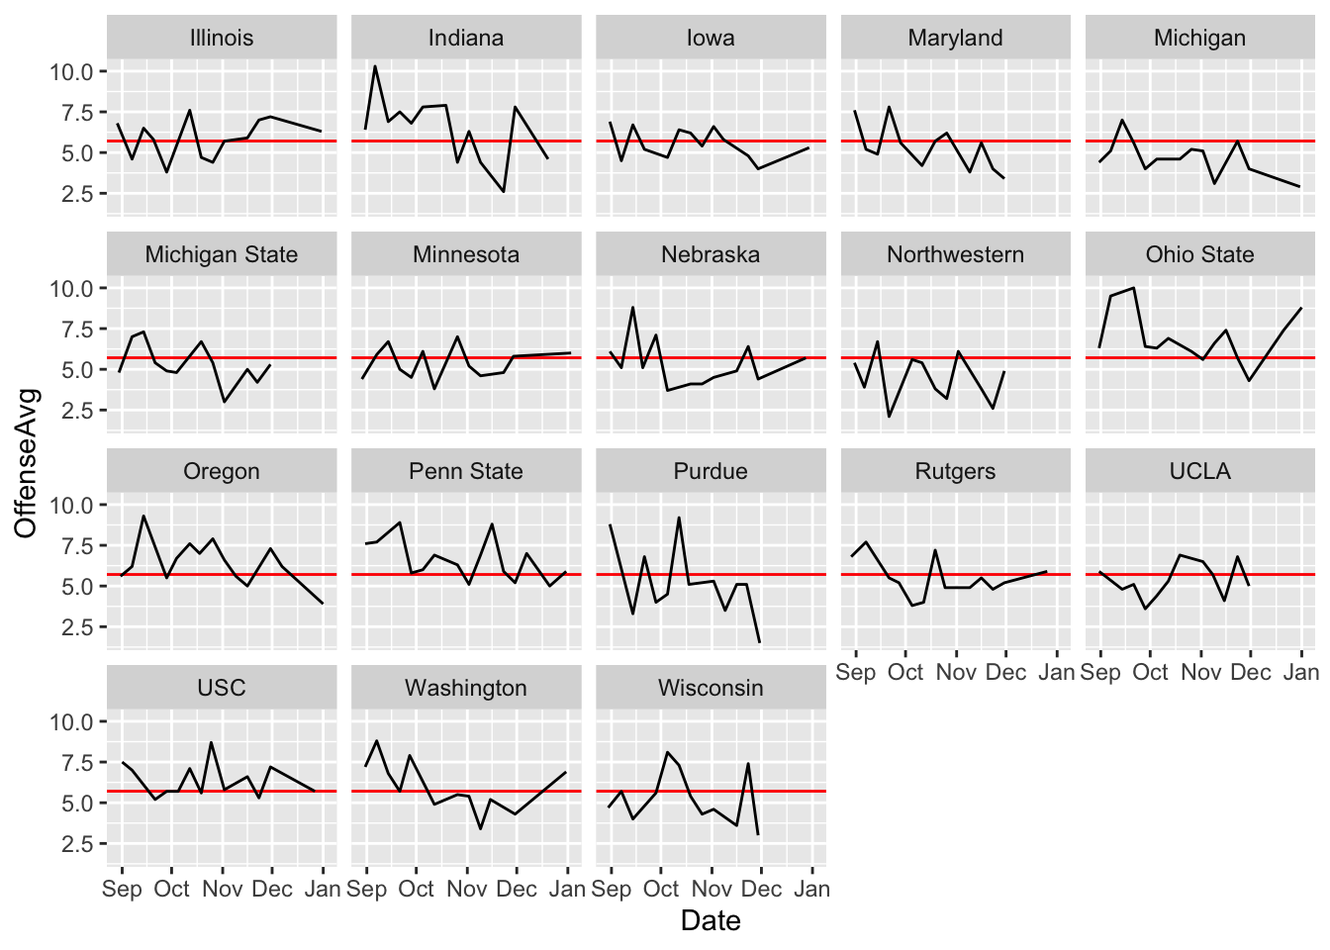
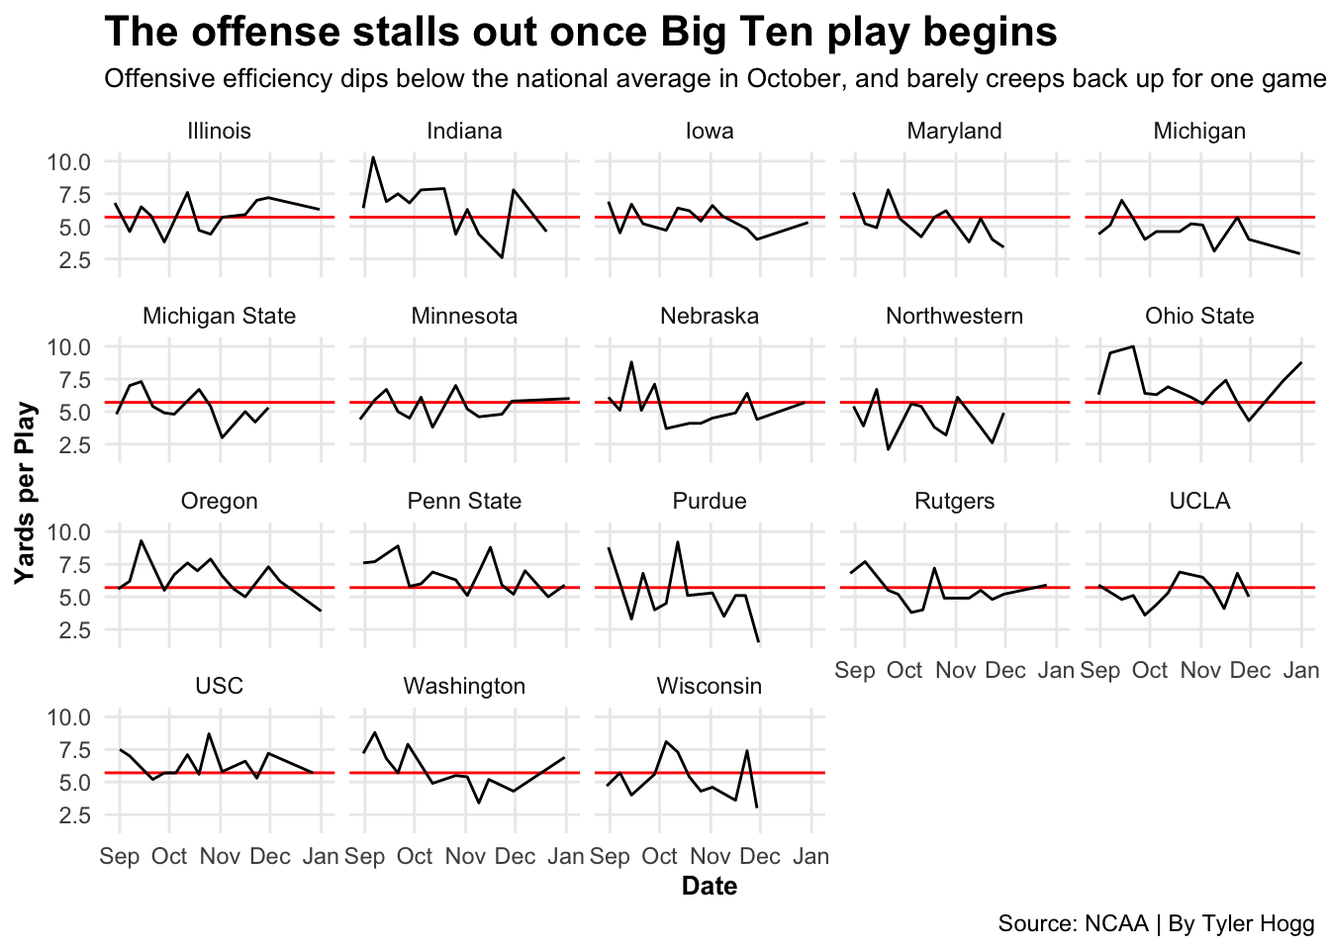
finalblogpost

diff --git a/posts/01-nebraska-football-2026-stats/index.html b/posts/01-nebraska-football-2026-stats/index.html
@@ -312,12 +312,12 @@ pre > code.sourceCode > span > a:first-child::before { text-decoration: underlin
 <span class="menu-text">About Me</span></a>
   </li>  
   <li class="nav-item compact">
-    <a class="nav-link" href="https://github.com/mattwaite"> <i class="bi bi-github" role="img">
+    <a class="nav-link" href="https://github.com/tylerhogg06"> <i class="bi bi-github" role="img">
 </i> 
 <span class="menu-text"></span></a>
   </li>  
   <li class="nav-item compact">
-    <a class="nav-link" href="https://twitter.com/mattwaite"> <i class="bi bi-twitter" role="img">
+    <a class="nav-link" href="https://x.com/tylerjhogg"> <i class="bi bi-twitter" role="img">
 </i> 
 <span class="menu-text"></span></a>
   </li>  
@@ -392,52 +392,12 @@ pre > code.sourceCode > span > a:first-child::before { text-decoration: underlin
 <p>However, Matt Rhule came into this program in 2023 as a “program-builder” and the Nebraska faithful put high expectations on him right away. The turnovers were cleaned up, but the success on the field still hadn’t shown up as much as desired. Once all said and done, Rhule’s teams the last few years have finished the season with records hovering around the .500 mark.</p>
 <p>That begs the question: What is the issue now?</p>
 <div class="cell">
-<details class="code-fold">
-<summary>Code</summary>
-<div class="code-copy-outer-scaffold"><div class="sourceCode cell-code" id="cb2"><pre class="sourceCode r code-with-copy"><code class="sourceCode r"><span id="cb2-1"><a href="#cb2-1" aria-hidden="true" tabindex="-1"></a>winlosslogs <span class="ot">&lt;-</span> logs24 <span class="sc">|&gt;</span></span>
-<span id="cb2-2"><a href="#cb2-2" aria-hidden="true" tabindex="-1"></a>  <span class="fu">mutate</span>(</span>
-<span id="cb2-3"><a href="#cb2-3" aria-hidden="true" tabindex="-1"></a>    <span class="at">wins =</span> <span class="fu">case_when</span>(</span>
-<span id="cb2-4"><a href="#cb2-4" aria-hidden="true" tabindex="-1"></a>      <span class="fu">grepl</span>(<span class="st">"W"</span>, Result) <span class="sc">~</span> <span class="dv">1</span>,</span>
-<span id="cb2-5"><a href="#cb2-5" aria-hidden="true" tabindex="-1"></a>      <span class="fu">grepl</span>(<span class="st">"L"</span>, Result) <span class="sc">~</span> <span class="dv">0</span></span>
-<span id="cb2-6"><a href="#cb2-6" aria-hidden="true" tabindex="-1"></a>    )</span>
-<span id="cb2-7"><a href="#cb2-7" aria-hidden="true" tabindex="-1"></a>  )</span>
-<span id="cb2-8"><a href="#cb2-8" aria-hidden="true" tabindex="-1"></a></span>
-<span id="cb2-9"><a href="#cb2-9" aria-hidden="true" tabindex="-1"></a>yardsper <span class="ot">&lt;-</span> winlosslogs <span class="sc">|&gt;</span></span>
-<span id="cb2-10"><a href="#cb2-10" aria-hidden="true" tabindex="-1"></a>  <span class="fu">group_by</span>(Team, Conference) <span class="sc">|&gt;</span></span>
-<span id="cb2-11"><a href="#cb2-11" aria-hidden="true" tabindex="-1"></a>  <span class="fu">summarise</span>(</span>
-<span id="cb2-12"><a href="#cb2-12" aria-hidden="true" tabindex="-1"></a>    <span class="at">total_plays =</span> <span class="fu">sum</span>(OffensivePlays),</span>
-<span id="cb2-13"><a href="#cb2-13" aria-hidden="true" tabindex="-1"></a>    <span class="at">total_yards =</span> <span class="fu">sum</span>(OffensiveYards),</span>
-<span id="cb2-14"><a href="#cb2-14" aria-hidden="true" tabindex="-1"></a>    <span class="at">defensive_plays =</span> <span class="fu">sum</span>(DefPlays),</span>
-<span id="cb2-15"><a href="#cb2-15" aria-hidden="true" tabindex="-1"></a>    <span class="at">defensive_yards =</span> <span class="fu">sum</span>(DefYards),</span>
-<span id="cb2-16"><a href="#cb2-16" aria-hidden="true" tabindex="-1"></a>    <span class="at">total_wins =</span> <span class="fu">sum</span>(wins)</span>
-<span id="cb2-17"><a href="#cb2-17" aria-hidden="true" tabindex="-1"></a>  ) <span class="sc">|&gt;</span></span>
-<span id="cb2-18"><a href="#cb2-18" aria-hidden="true" tabindex="-1"></a>  <span class="fu">mutate</span>(</span>
-<span id="cb2-19"><a href="#cb2-19" aria-hidden="true" tabindex="-1"></a>    <span class="at">offensive_ypp =</span> total_yards <span class="sc">/</span> total_plays,</span>
-<span id="cb2-20"><a href="#cb2-20" aria-hidden="true" tabindex="-1"></a>    <span class="at">defensive_ypp =</span> defensive_yards <span class="sc">/</span> defensive_plays</span>
-<span id="cb2-21"><a href="#cb2-21" aria-hidden="true" tabindex="-1"></a>  )</span>
-<span id="cb2-22"><a href="#cb2-22" aria-hidden="true" tabindex="-1"></a></span>
-<span id="cb2-23"><a href="#cb2-23" aria-hidden="true" tabindex="-1"></a>nu <span class="ot">&lt;-</span> yardsper <span class="sc">|&gt;</span></span>
-<span id="cb2-24"><a href="#cb2-24" aria-hidden="true" tabindex="-1"></a>  <span class="fu">filter</span>(Team <span class="sc">==</span> <span class="st">"Nebraska"</span>)</span>
-<span id="cb2-25"><a href="#cb2-25" aria-hidden="true" tabindex="-1"></a></span>
-<span id="cb2-26"><a href="#cb2-26" aria-hidden="true" tabindex="-1"></a><span class="fu">ggplot</span>() <span class="sc">+</span></span>
-<span id="cb2-27"><a href="#cb2-27" aria-hidden="true" tabindex="-1"></a>  <span class="fu">geom_point</span>(</span>
-<span id="cb2-28"><a href="#cb2-28" aria-hidden="true" tabindex="-1"></a>    <span class="at">data =</span> yardsper,</span>
-<span id="cb2-29"><a href="#cb2-29" aria-hidden="true" tabindex="-1"></a>    <span class="fu">aes</span>(<span class="at">x =</span> offensive_ypp, <span class="at">y =</span> defensive_ypp, <span class="at">size =</span> total_wins),</span>
-<span id="cb2-30"><a href="#cb2-30" aria-hidden="true" tabindex="-1"></a>    <span class="at">alpha =</span> .<span class="dv">3</span></span>
-<span id="cb2-31"><a href="#cb2-31" aria-hidden="true" tabindex="-1"></a>  ) <span class="sc">+</span></span>
-<span id="cb2-32"><a href="#cb2-32" aria-hidden="true" tabindex="-1"></a>  <span class="fu">scale_size</span>(<span class="at">range =</span> <span class="fu">c</span>(<span class="dv">3</span>, <span class="dv">8</span>), <span class="at">name =</span> <span class="st">"Wins"</span>) <span class="sc">+</span></span>
-<span id="cb2-33"><a href="#cb2-33" aria-hidden="true" tabindex="-1"></a>  <span class="fu">geom_point</span>(</span>
-<span id="cb2-34"><a href="#cb2-34" aria-hidden="true" tabindex="-1"></a>    <span class="at">data =</span> nu,</span>
-<span id="cb2-35"><a href="#cb2-35" aria-hidden="true" tabindex="-1"></a>    <span class="fu">aes</span>(</span>
-<span id="cb2-36"><a href="#cb2-36" aria-hidden="true" tabindex="-1"></a>      <span class="at">x =</span> offensive_ypp,</span>
-<span id="cb2-37"><a href="#cb2-37" aria-hidden="true" tabindex="-1"></a>      <span class="at">y =</span> defensive_ypp,</span>
-<span id="cb2-38"><a href="#cb2-38" aria-hidden="true" tabindex="-1"></a>      <span class="at">size =</span> total_wins</span>
-<span id="cb2-39"><a href="#cb2-39" aria-hidden="true" tabindex="-1"></a>    ),</span>
-<span id="cb2-40"><a href="#cb2-40" aria-hidden="true" tabindex="-1"></a>    <span class="at">color =</span> <span class="st">"red"</span></span>
-<span id="cb2-41"><a href="#cb2-41" aria-hidden="true" tabindex="-1"></a>  )<span class="sc">+</span></span>
-<span id="cb2-42"><a href="#cb2-42" aria-hidden="true" tabindex="-1"></a>  <span class="fu">geom_vline</span>(<span class="at">xintercept =</span> <span class="fl">5.763149</span>) <span class="sc">+</span></span>
-<span id="cb2-43"><a href="#cb2-43" aria-hidden="true" tabindex="-1"></a>  <span class="fu">geom_hline</span>(<span class="at">yintercept=</span> <span class="fl">5.601157</span>)</span></code></pre></div><button title="Copy to Clipboard" class="code-copy-button"><i class="bi"></i></button></div>
-</details>
+<div class="cell-output cell-output-stdout">
+<pre><code># A tibble: 1 × 2
+  offensive_ypp defensive_ypp
+          &lt;dbl&gt;         &lt;dbl&gt;
+1          5.79          5.57</code></pre>
+</div>
 <div class="cell-output-display">
 <div>
 <figure class="figure">
@@ -474,7 +434,21 @@ pre > code.sourceCode > span > a:first-child::before { text-decoration: underlin
 <div class="code-copy-outer-scaffold"><div class="sourceCode cell-code" id="cb5"><pre class="sourceCode r code-with-copy"><code class="sourceCode r"><span id="cb5-1"><a href="#cb5-1" aria-hidden="true" tabindex="-1"></a><span class="fu">ggplot</span>()<span class="sc">+</span></span>
 <span id="cb5-2"><a href="#cb5-2" aria-hidden="true" tabindex="-1"></a>  <span class="fu">geom_hline</span>(<span class="at">yintercept=</span> <span class="fl">5.708621</span>, <span class="at">color=</span><span class="st">"red"</span>)<span class="sc">+</span></span>
 <span id="cb5-3"><a href="#cb5-3" aria-hidden="true" tabindex="-1"></a>  <span class="fu">geom_line</span>(<span class="at">data=</span>bigten, <span class="fu">aes</span>(<span class="at">x=</span>Date, <span class="at">y=</span>OffenseAvg, <span class="at">group=</span>Team)) <span class="sc">+</span></span>
-<span id="cb5-4"><a href="#cb5-4" aria-hidden="true" tabindex="-1"></a>  <span class="fu">facet_wrap</span>(<span class="sc">~</span>Team)</span></code></pre></div><button title="Copy to Clipboard" class="code-copy-button"><i class="bi"></i></button></div>
+<span id="cb5-4"><a href="#cb5-4" aria-hidden="true" tabindex="-1"></a>  <span class="fu">facet_wrap</span>(<span class="sc">~</span>Team)<span class="sc">+</span></span>
+<span id="cb5-5"><a href="#cb5-5" aria-hidden="true" tabindex="-1"></a>  <span class="fu">labs</span>(</span>
+<span id="cb5-6"><a href="#cb5-6" aria-hidden="true" tabindex="-1"></a>    <span class="at">x =</span> <span class="st">"Date"</span>,</span>
+<span id="cb5-7"><a href="#cb5-7" aria-hidden="true" tabindex="-1"></a>    <span class="at">y =</span> <span class="st">"Yards per Play"</span>,</span>
+<span id="cb5-8"><a href="#cb5-8" aria-hidden="true" tabindex="-1"></a>    <span class="at">title =</span> <span class="st">"The offense stalls out once Big Ten play begins"</span>,</span>
+<span id="cb5-9"><a href="#cb5-9" aria-hidden="true" tabindex="-1"></a>    <span class="at">subtitle =</span> <span class="st">"Offensive efficiency dips below the national average in October, and barely creeps back up for one game"</span>,</span>
+<span id="cb5-10"><a href="#cb5-10" aria-hidden="true" tabindex="-1"></a>    <span class="at">caption =</span> <span class="st">"Source: NCAA | By Tyler Hogg"</span></span>
+<span id="cb5-11"><a href="#cb5-11" aria-hidden="true" tabindex="-1"></a>  )<span class="sc">+</span></span>
+<span id="cb5-12"><a href="#cb5-12" aria-hidden="true" tabindex="-1"></a>  <span class="fu">theme_minimal</span>() <span class="sc">+</span></span>
+<span id="cb5-13"><a href="#cb5-13" aria-hidden="true" tabindex="-1"></a>  <span class="fu">theme</span>(</span>
+<span id="cb5-14"><a href="#cb5-14" aria-hidden="true" tabindex="-1"></a>    <span class="at">plot.title =</span> <span class="fu">element_text</span>(<span class="at">size =</span> <span class="dv">16</span>, <span class="at">face =</span> <span class="st">"bold"</span>),</span>
+<span id="cb5-15"><a href="#cb5-15" aria-hidden="true" tabindex="-1"></a>    <span class="at">axis.title =</span> <span class="fu">element_text</span>(<span class="at">size =</span> <span class="dv">10</span>, <span class="at">face =</span> <span class="st">"bold"</span>),</span>
+<span id="cb5-16"><a href="#cb5-16" aria-hidden="true" tabindex="-1"></a>    <span class="at">plot.subtitle =</span> <span class="fu">element_text</span>(<span class="at">size =</span> <span class="dv">10</span>),</span>
+<span id="cb5-17"><a href="#cb5-17" aria-hidden="true" tabindex="-1"></a>    <span class="at">panel.grid.minor =</span> <span class="fu">element_blank</span>(),</span>
+<span id="cb5-18"><a href="#cb5-18" aria-hidden="true" tabindex="-1"></a>  )</span></code></pre></div><button title="Copy to Clipboard" class="code-copy-button"><i class="bi"></i></button></div>
 </details>
 <div class="cell-output-display">
 <div>
@@ -501,10 +475,28 @@ pre > code.sourceCode > span > a:first-child::before { text-decoration: underlin
 </div>
 <details class="code-fold">
 <summary>Code</summary>
-<div class="code-copy-outer-scaffold"><div class="sourceCode cell-code" id="cb8"><pre class="sourceCode r code-with-copy"><code class="sourceCode r"><span id="cb8-1"><a href="#cb8-1" aria-hidden="true" tabindex="-1"></a><span class="fu">ggplot</span>()<span class="sc">+</span></span>
-<span id="cb8-2"><a href="#cb8-2" aria-hidden="true" tabindex="-1"></a>  <span class="fu">geom_line</span>(<span class="at">data=</span>logs26, <span class="fu">aes</span>(<span class="at">x=</span>Date, <span class="at">y=</span>total_yards), <span class="at">color =</span> <span class="st">"blue"</span>)<span class="sc">+</span></span>
-<span id="cb8-3"><a href="#cb8-3" aria-hidden="true" tabindex="-1"></a>  <span class="fu">geom_hline</span>(<span class="at">yintercept=</span> <span class="dv">425</span>, <span class="at">color=</span><span class="st">"red"</span>)<span class="sc">+</span></span>
-<span id="cb8-4"><a href="#cb8-4" aria-hidden="true" tabindex="-1"></a>  <span class="fu">scale_y_continuous</span>(<span class="at">limits =</span> <span class="fu">c</span>(<span class="dv">0</span>, <span class="dv">700</span>))</span></code></pre></div><button title="Copy to Clipboard" class="code-copy-button"><i class="bi"></i></button></div>
+<div class="code-copy-outer-scaffold"><div class="sourceCode cell-code" id="cb8"><pre class="sourceCode r code-with-copy"><code class="sourceCode r"><span id="cb8-1"><a href="#cb8-1" aria-hidden="true" tabindex="-1"></a>bigstart <span class="ot">&lt;-</span>logs26 <span class="sc">|&gt;</span></span>
+<span id="cb8-2"><a href="#cb8-2" aria-hidden="true" tabindex="-1"></a>  <span class="fu">filter</span>(Opponent <span class="sc">==</span> <span class="st">"Michigan State"</span>)</span>
+<span id="cb8-3"><a href="#cb8-3" aria-hidden="true" tabindex="-1"></a></span>
+<span id="cb8-4"><a href="#cb8-4" aria-hidden="true" tabindex="-1"></a><span class="fu">ggplot</span>()<span class="sc">+</span></span>
+<span id="cb8-5"><a href="#cb8-5" aria-hidden="true" tabindex="-1"></a>  <span class="fu">geom_line</span>(<span class="at">data=</span>logs26, <span class="fu">aes</span>(<span class="at">x=</span>Date, <span class="at">y=</span>total_yards), <span class="at">color =</span> <span class="st">"blue"</span>)<span class="sc">+</span></span>
+<span id="cb8-6"><a href="#cb8-6" aria-hidden="true" tabindex="-1"></a>  <span class="fu">geom_vline</span>(<span class="at">data =</span> bigstart, <span class="fu">aes</span>(<span class="at">xintercept =</span> Date))<span class="sc">+</span></span>
+<span id="cb8-7"><a href="#cb8-7" aria-hidden="true" tabindex="-1"></a>  <span class="fu">geom_text_repel</span>(<span class="at">data =</span> bigstart, <span class="fu">aes</span>(<span class="at">x =</span> Date, <span class="at">y =</span> <span class="dv">575</span>), <span class="at">label =</span> <span class="st">"Big Ten Play Begins"</span>, <span class="at">hjust =</span> <span class="sc">-</span><span class="fl">0.1</span>)<span class="sc">+</span></span>
+<span id="cb8-8"><a href="#cb8-8" aria-hidden="true" tabindex="-1"></a>  <span class="fu">scale_y_continuous</span>(<span class="at">limits =</span> <span class="fu">c</span>(<span class="dv">0</span>, <span class="dv">700</span>))<span class="sc">+</span></span>
+<span id="cb8-9"><a href="#cb8-9" aria-hidden="true" tabindex="-1"></a>  <span class="fu">labs</span>(</span>
+<span id="cb8-10"><a href="#cb8-10" aria-hidden="true" tabindex="-1"></a>    <span class="at">x =</span> <span class="st">"Date"</span>,</span>
+<span id="cb8-11"><a href="#cb8-11" aria-hidden="true" tabindex="-1"></a>    <span class="at">y =</span> <span class="st">"Total Yards"</span>,</span>
+<span id="cb8-12"><a href="#cb8-12" aria-hidden="true" tabindex="-1"></a>    <span class="at">title =</span> <span class="st">"Nebraska's offense once again faltered down the stretch in 2026"</span>,</span>
+<span id="cb8-13"><a href="#cb8-13" aria-hidden="true" tabindex="-1"></a>    <span class="at">subtitle =</span> <span class="st">"After topping 546 yards in the September slate, total yardage dipped sharply once Big Ten play began"</span>,</span>
+<span id="cb8-14"><a href="#cb8-14" aria-hidden="true" tabindex="-1"></a>    <span class="at">caption =</span> <span class="st">"Source: SportsReference | By Tyler Hogg"</span></span>
+<span id="cb8-15"><a href="#cb8-15" aria-hidden="true" tabindex="-1"></a>  )<span class="sc">+</span></span>
+<span id="cb8-16"><a href="#cb8-16" aria-hidden="true" tabindex="-1"></a>  <span class="fu">theme_minimal</span>() <span class="sc">+</span></span>
+<span id="cb8-17"><a href="#cb8-17" aria-hidden="true" tabindex="-1"></a>  <span class="fu">theme</span>(</span>
+<span id="cb8-18"><a href="#cb8-18" aria-hidden="true" tabindex="-1"></a>    <span class="at">plot.title =</span> <span class="fu">element_text</span>(<span class="at">size =</span> <span class="dv">16</span>, <span class="at">face =</span> <span class="st">"bold"</span>),</span>
+<span id="cb8-19"><a href="#cb8-19" aria-hidden="true" tabindex="-1"></a>    <span class="at">axis.title =</span> <span class="fu">element_text</span>(<span class="at">size =</span> <span class="dv">10</span>, <span class="at">face =</span> <span class="st">"bold"</span>),</span>
+<span id="cb8-20"><a href="#cb8-20" aria-hidden="true" tabindex="-1"></a>    <span class="at">plot.subtitle =</span> <span class="fu">element_text</span>(<span class="at">size =</span> <span class="dv">10</span>),</span>
+<span id="cb8-21"><a href="#cb8-21" aria-hidden="true" tabindex="-1"></a>    <span class="at">panel.grid.minor =</span> <span class="fu">element_blank</span>()</span>
+<span id="cb8-22"><a href="#cb8-22" aria-hidden="true" tabindex="-1"></a>  )</span></code></pre></div><button title="Copy to Clipboard" class="code-copy-button"><i class="bi"></i></button></div>
 </details>
 <div class="cell-output-display">
 <div>
@@ -536,9 +528,26 @@ pre > code.sourceCode > span > a:first-child::before { text-decoration: underlin
 <span id="cb9-14"><a href="#cb9-14" aria-hidden="true" tabindex="-1"></a>  <span class="fu">geom_point</span>(<span class="at">data=</span>losses, <span class="fu">aes</span>(<span class="at">x=</span>team_pts, <span class="at">y=</span>total_yards), <span class="at">color =</span> <span class="st">"red"</span>) <span class="sc">+</span></span>
 <span id="cb9-15"><a href="#cb9-15" aria-hidden="true" tabindex="-1"></a>  <span class="fu">geom_point</span>(<span class="at">data=</span>wins, <span class="fu">aes</span>(<span class="at">x=</span>team_pts, <span class="at">y=</span>total_yards), <span class="at">color =</span> <span class="st">"#4CBB17"</span>) <span class="sc">+</span></span>
 <span id="cb9-16"><a href="#cb9-16" aria-hidden="true" tabindex="-1"></a>  <span class="fu">geom_text_repel</span>(<span class="at">data=</span>logs26, <span class="fu">aes</span>(<span class="at">x=</span>team_pts, <span class="at">y=</span>total_yards, <span class="at">label =</span> Opponent)) <span class="sc">+</span></span>
-<span id="cb9-17"><a href="#cb9-17" aria-hidden="true" tabindex="-1"></a>  <span class="fu">geom_encircle</span>(<span class="at">data =</span> badlosses, <span class="fu">aes</span>(<span class="at">x =</span> team_pts, <span class="at">y =</span> total_yards), <span class="at">s_shape =</span> .<span class="dv">1</span>, <span class="at">expand =</span> .<span class="dv">1</span>, <span class="at">color =</span> <span class="st">"black"</span>)<span class="sc">+</span></span>
-<span id="cb9-18"><a href="#cb9-18" aria-hidden="true" tabindex="-1"></a>  <span class="fu">scale_y_continuous</span>(<span class="at">limits =</span> <span class="fu">c</span>(<span class="dv">0</span>, <span class="dv">600</span>))<span class="sc">+</span></span>
-<span id="cb9-19"><a href="#cb9-19" aria-hidden="true" tabindex="-1"></a>  <span class="fu">scale_x_continuous</span>(<span class="at">limits =</span> <span class="fu">c</span>(<span class="dv">0</span>, <span class="dv">60</span>))</span></code></pre></div><button title="Copy to Clipboard" class="code-copy-button"><i class="bi"></i></button></div>
+<span id="cb9-17"><a href="#cb9-17" aria-hidden="true" tabindex="-1"></a>  <span class="fu">geom_text</span>(<span class="at">data=</span>wins, <span class="fu">aes</span>(<span class="at">x=</span><span class="dv">47</span>, <span class="at">y=</span><span class="dv">320</span>, <span class="at">label =</span> <span class="st">"Wins"</span>), <span class="at">color =</span> <span class="st">"#4CBB17"</span>) <span class="sc">+</span></span>
+<span id="cb9-18"><a href="#cb9-18" aria-hidden="true" tabindex="-1"></a>  <span class="fu">geom_text</span>(<span class="at">data=</span>badlosses, <span class="fu">aes</span>(<span class="at">x=</span> <span class="dv">2</span>, <span class="at">y=</span> <span class="dv">475</span>, <span class="at">label =</span> <span class="st">"Bad Losses"</span>), <span class="at">color =</span> <span class="st">"red"</span>) <span class="sc">+</span></span>
+<span id="cb9-19"><a href="#cb9-19" aria-hidden="true" tabindex="-1"></a>  <span class="fu">geom_encircle</span>(<span class="at">data =</span> badlosses, <span class="fu">aes</span>(<span class="at">x =</span> team_pts, <span class="at">y =</span> total_yards), <span class="at">s_shape =</span> .<span class="dv">1</span>, <span class="at">expand =</span> .<span class="dv">15</span>, <span class="at">color =</span> <span class="st">"black"</span>)<span class="sc">+</span></span>
+<span id="cb9-20"><a href="#cb9-20" aria-hidden="true" tabindex="-1"></a>  <span class="fu">geom_encircle</span>(<span class="at">data =</span> wins, <span class="fu">aes</span>(<span class="at">x =</span> team_pts, <span class="at">y =</span> total_yards), <span class="at">s_shape =</span> .<span class="dv">1</span>, <span class="at">expand =</span> .<span class="dv">15</span>, <span class="at">color =</span> <span class="st">"black"</span>)<span class="sc">+</span></span>
+<span id="cb9-21"><a href="#cb9-21" aria-hidden="true" tabindex="-1"></a>  <span class="fu">scale_y_continuous</span>(<span class="at">limits =</span> <span class="fu">c</span>(<span class="dv">0</span>, <span class="dv">600</span>))<span class="sc">+</span></span>
+<span id="cb9-22"><a href="#cb9-22" aria-hidden="true" tabindex="-1"></a>  <span class="fu">scale_x_continuous</span>(<span class="at">limits =</span> <span class="fu">c</span>(<span class="dv">0</span>, <span class="dv">60</span>))<span class="sc">+</span></span>
+<span id="cb9-23"><a href="#cb9-23" aria-hidden="true" tabindex="-1"></a>  <span class="fu">labs</span>(</span>
+<span id="cb9-24"><a href="#cb9-24" aria-hidden="true" tabindex="-1"></a>    <span class="at">x =</span> <span class="st">"Total Yards"</span>,</span>
+<span id="cb9-25"><a href="#cb9-25" aria-hidden="true" tabindex="-1"></a>    <span class="at">y =</span> <span class="st">"Points Scored"</span>,</span>
+<span id="cb9-26"><a href="#cb9-26" aria-hidden="true" tabindex="-1"></a>    <span class="at">title =</span> <span class="st">"The Huskers can not finish their offensive drives"</span>,</span>
+<span id="cb9-27"><a href="#cb9-27" aria-hidden="true" tabindex="-1"></a>    <span class="at">subtitle =</span> <span class="st">"Even with similar yardage to their victories, they have not scored more than 17 points in any of their losses"</span>,</span>
+<span id="cb9-28"><a href="#cb9-28" aria-hidden="true" tabindex="-1"></a>    <span class="at">caption =</span> <span class="st">"Source: SportsReference | By Tyler Hogg"</span></span>
+<span id="cb9-29"><a href="#cb9-29" aria-hidden="true" tabindex="-1"></a>  )<span class="sc">+</span></span>
+<span id="cb9-30"><a href="#cb9-30" aria-hidden="true" tabindex="-1"></a>  <span class="fu">theme_minimal</span>() <span class="sc">+</span></span>
+<span id="cb9-31"><a href="#cb9-31" aria-hidden="true" tabindex="-1"></a>  <span class="fu">theme</span>(</span>
+<span id="cb9-32"><a href="#cb9-32" aria-hidden="true" tabindex="-1"></a>    <span class="at">plot.title =</span> <span class="fu">element_text</span>(<span class="at">size =</span> <span class="dv">16</span>, <span class="at">face =</span> <span class="st">"bold"</span>),</span>
+<span id="cb9-33"><a href="#cb9-33" aria-hidden="true" tabindex="-1"></a>    <span class="at">axis.title =</span> <span class="fu">element_text</span>(<span class="at">size =</span> <span class="dv">10</span>, <span class="at">face=</span> <span class="st">"bold"</span>),</span>
+<span id="cb9-34"><a href="#cb9-34" aria-hidden="true" tabindex="-1"></a>    <span class="at">plot.subtitle =</span> <span class="fu">element_text</span>(<span class="at">size =</span> <span class="dv">10</span>),</span>
+<span id="cb9-35"><a href="#cb9-35" aria-hidden="true" tabindex="-1"></a>    <span class="at">panel.grid.minor =</span> <span class="fu">element_blank</span>()</span>
+<span id="cb9-36"><a href="#cb9-36" aria-hidden="true" tabindex="-1"></a>  )</span></code></pre></div><button title="Copy to Clipboard" class="code-copy-button"><i class="bi"></i></button></div>
 </details>
 <div class="cell-output-display">
 <div>

diff --git a/index.html b/index.html
@@ -384,7 +384,7 @@ window.Quarto = {
 
 <div class="quarto-listing quarto-listing-container-default" id="listing-listing">
 <div class="list quarto-listing-default">
-<div class="quarto-post image-right" data-index="0" data-categories="Zm9vdGJhbGwlMkNodXNrZXJz" data-listing-date-sort="1794549600000" data-listing-file-modified-sort="1794590766600" data-listing-date-modified-sort="NaN" data-listing-reading-time-sort="6" data-listing-word-count-sort="1018">
+<div class="quarto-post image-right" data-index="0" data-categories="Zm9vdGJhbGwlMkNodXNrZXJz" data-listing-date-sort="1794549600000" data-listing-file-modified-sort="1794607105527" data-listing-date-modified-sort="NaN" data-listing-reading-time-sort="8" data-listing-word-count-sort="1588">
 <div class="thumbnail"><a href="./posts/01-nebraska-football-2026-stats/index.html" class="no-external-icon">
 
 <img loading="lazy" src="./posts/01-nebraska-football-2026-stats/image.png" class="thumbnail-image">
